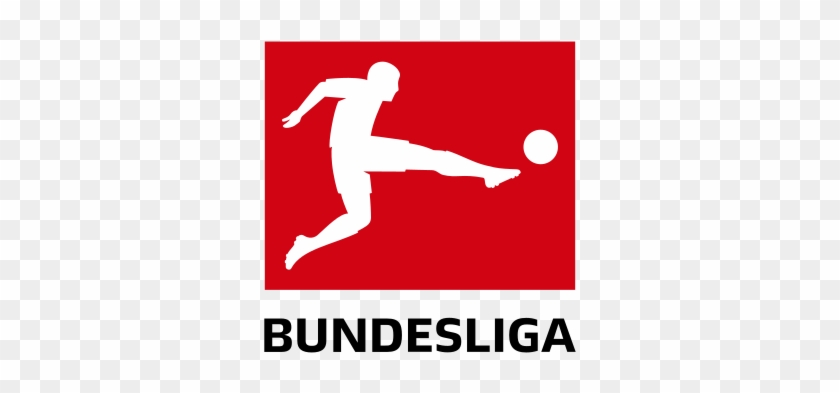
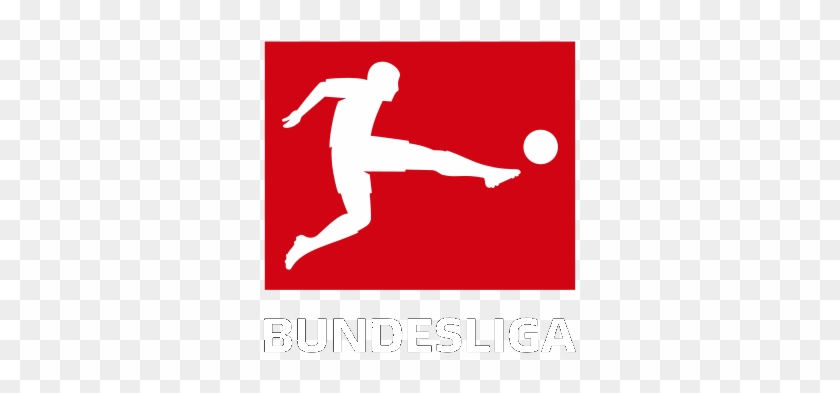
fix(bundes): retire fond blanc du PNG via flood-fill + BUNDESLIGA noir->blanc
Script Python (remove_white_bg.py) : flood-fill 4 coins pour virer le fond
blanc uniforme en preservant le footballeur blanc a l'interieur du crest
rouge. Puis 2e passe pour convertir le texte noir BUNDESLIGA en blanc
(lisible sur fond sombre du chip).
Resultat : crest rouge + footballeur + texte blanc sur transparent,
integration propre sur les chips.

Changed region(s): [[0.3095, 0.7939, 0.681, 0.916]]

diff --git a/remove_white_bg.py b/remove_white_bg.py
@@ -1,0 +1,57 @@
+"""Flood-fill white bg to transparent from the 4 corners, preserve interior whites."""
+from PIL import Image
+from collections import deque
+
+SRC = "deglingo-scout-app/public/bundes.png"
+DST = "deglingo-scout-app/public/bundes.png"
+THRESH = 240  # pixels with R,G,B >= THRESH considered "white-ish"
+
+img = Image.open(SRC).convert("RGBA")
+w, h = img.size
+pixels = img.load()
+print(f"Size: {w}x{h}")
+
+visited = [[False] * h for _ in range(w)]
+q = deque()
+
+# Seed from the 4 edges
+for x in range(w):
+    for y in (0, h - 1):
+        r, g, b, a = pixels[x, y]
+        if a > 0 and r >= THRESH and g >= THRESH and b >= THRESH:
+            q.append((x, y))
+            visited[x][y] = True
+for y in range(h):
+    for x in (0, w - 1):
+        r, g, b, a = pixels[x, y]
+        if a > 0 and r >= THRESH and g >= THRESH and b >= THRESH:
+            q.append((x, y))
+            visited[x][y] = True
+
+count = 0
+while q:
+    x, y = q.popleft()
+    r, g, b, a = pixels[x, y]
+    if a > 0 and r >= THRESH and g >= THRESH and b >= THRESH:
+        pixels[x, y] = (0, 0, 0, 0)
+        count += 1
+        for dx, dy in ((-1, 0), (1, 0), (0, -1), (0, 1)):
+            nx, ny = x + dx, y + dy
+            if 0 <= nx < w and 0 <= ny < h and not visited[nx][ny]:
+                visited[nx][ny] = True
+                q.append((nx, ny))
+
+print(f"Pixels made transparent: {count}")
+
+# Second pass : black BUNDESLIGA text -> white (visible on dark chip bg)
+black_count = 0
+for x in range(w):
+    for y in range(h):
+        r, g, b, a = pixels[x, y]
+        if a > 0 and r < 80 and g < 80 and b < 80:
+            pixels[x, y] = (255, 255, 255, a)
+            black_count += 1
+print(f"Black->white pixels: {black_count}")
+
+img.save(DST, "PNG")
+print(f"Saved: {DST}")
